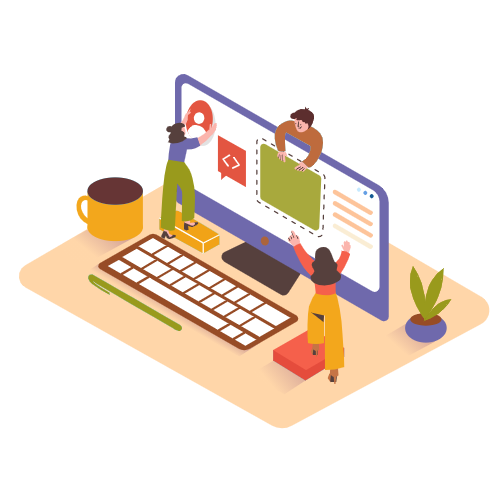
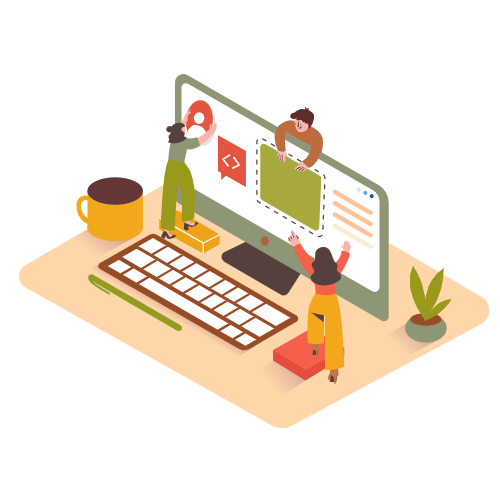
Add files via upload

diff --git a/assets/css/menus.css b/assets/css/menus.css
@@ -263,7 +263,7 @@
     border-style: solid;
     border-width: 2px
 }
-.menu-light.flyout-menu.flyout-menu.flyout-menu-is-closed div.fly-out-profile-box img { border-color: rgb(80,227,194) }
+.menu-light.flyout-menu.flyout-menu.flyout-menu-is-closed div.fly-out-profile-box img { border-color: #E28f83 }  /* NUEVA PALETA */
 
 /* ========= Light background menu - desktops and mobiles ========= */
 
@@ -284,8 +284,8 @@
 .menu-light ul li a.btn-cta { font-weight: 500 }
 .menu-light ul li a.btn-cta:link, 
 .menu-light ul li a.btn-cta:visited {
-    border-color: rgb(80,227,194);
-    background-color: rgb(80,227,194);
+    border-color: #E28f83;     /* NUEVA PALETA */
+    background-color: #E28f83;   /* NUEVA PALETA */
     color: #000;
     border-radius: 30px;
 }
@@ -299,8 +299,8 @@
 }
 
 /* on mobiles only */
-.flyout-menu.menu-light { background-color: #fff3c7}
-.menu-light.flyout-menu hr { background-color:#FD6F96; border-color: #FD6F96 } 
+.flyout-menu.menu-light { background-color: #faf2da}  /* NUEVA PALETA */
+.menu-light.flyout-menu hr { background-color: #8e9775; border-color: #8e9775 }   /* NUEVA PALETA */
 
 .menu-light.flyout-menu h4,
 .menu-light.flyout-menu h5,
@@ -319,9 +319,9 @@
 }
 
 /* profile image border colour */
-.menu-light.flyout-menu.flyout-menu-is-open div.fly-out-profile-box img { border-color: #FD6F96 }
+.menu-light.flyout-menu.flyout-menu-is-open div.fly-out-profile-box img { border-color: #e28f83 }  /* NUEVA PALETA */
 
 /* contact icons */
-.menu-light.flyout-menu .fly-out-social-icons a i { color: #FD6F96 }
+.menu-light.flyout-menu .fly-out-social-icons a i { color: #e28f83 }  /* NUEVA PALETA */
 
 /* === End light background menu === */

diff --git a/assets/css/main.css b/assets/css/main.css
@@ -4,8 +4,8 @@ body { font-family: 'Rubik', sans-serif }
 h1, h2, h3 { color: #222 }
 h4 { font-family: "Sacramento", sans-serif;}
 p, li { color: #403d50 }
-.bg-pastel-green { background-color: #fff3c7}
-.bg-pastel-grey { background-color: #fff3c7}
+.bg-pastel-green { background-color: #faf2da}   /* NUEVA PALETA */
+.bg-pastel-grey { background-color: #faf2da}    /* NUEVA PALETA */
 
 
 /* ==== CONTAINER FOR SINGLE COLUMN OF CONTENT ==== */
@@ -69,8 +69,8 @@ a.button:link, a.button:visited, a.button:hover, a.button:active {
 }
  
 a.button-solid:link, .button-solid:visited {
-    border-color: #F05454   ;
-    background-color: #F05454    ;
+    border-color: #e28f83   ;   /* NUEVA PALETA */
+    background-color: #e28f83    ;  /* NUEVA PALETA */
     color: #000;
 } 
  
@@ -206,7 +206,7 @@ a.dark-fancy-link:hover, a.dark-fancy-link:active { color: rgb(49,145,131); colo
 	.container-flexbox .item-3 { width: 100% }
 	.container-flexbox .item-3 { margin-bottom: 14% }
     .wrapper{
-        background-color: #a8f1e1        ;
+        background-color: #e28f83        ;   /* NUEVA PALETA */
         border: none ;
         border-radius: 5%;
         padding:  12px 12px 0px 12px;
@@ -298,7 +298,7 @@ img.image-circle {
 /* All screens */
 .container-contact-form { 
 	text-align: center; 
-	background-color: #fff; 
+	background-color: #fff; /* NUEVA PALETA */
 	border: solid 1px gray
 }
 
@@ -399,7 +399,7 @@ img.image-circle {
 #contact-form #btn-submit { 
 	float: right; 
 	border: none; 
-    background-color: #FD6F96   ;
+    background-color: #e28f83   ;   /* NUEVA PALETA */
     color: #000;
 	font-weight: bold;
     padding: 18px 28px;

diff --git a/assets/css/footer.css b/assets/css/footer.css
@@ -11,7 +11,7 @@
 footer { 
     text-align: center;
     color:#fff;
-    background-color: #6F69AC;
+    background-color: #4a503d;    /* NUEVA PALETA */
     
 }
 
